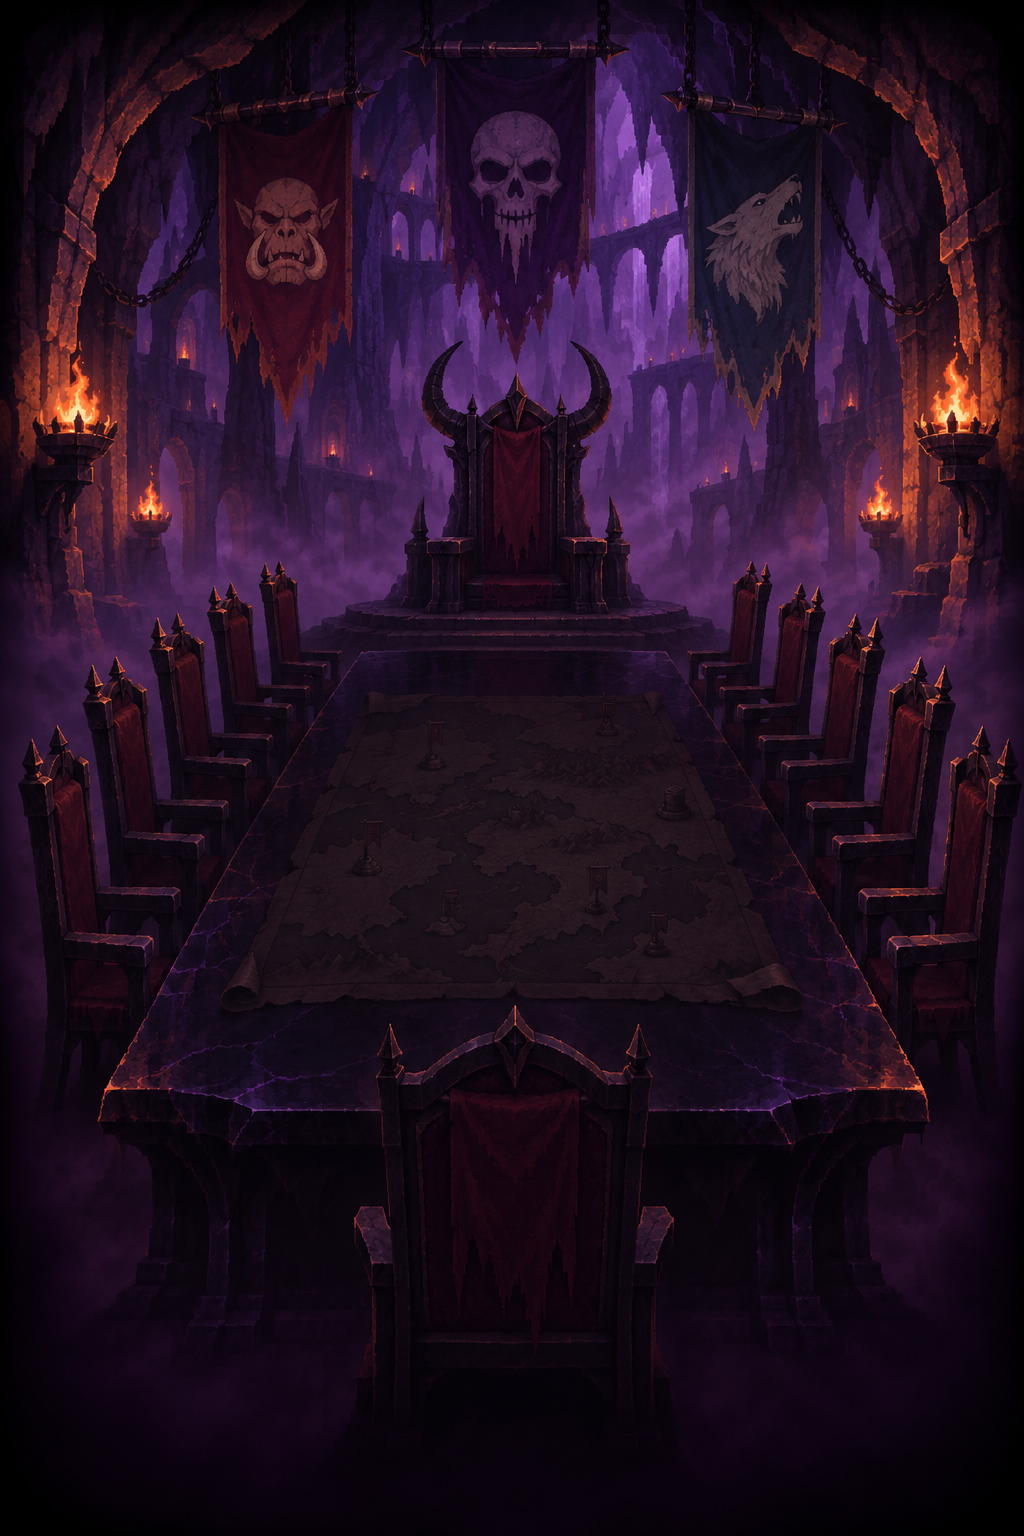
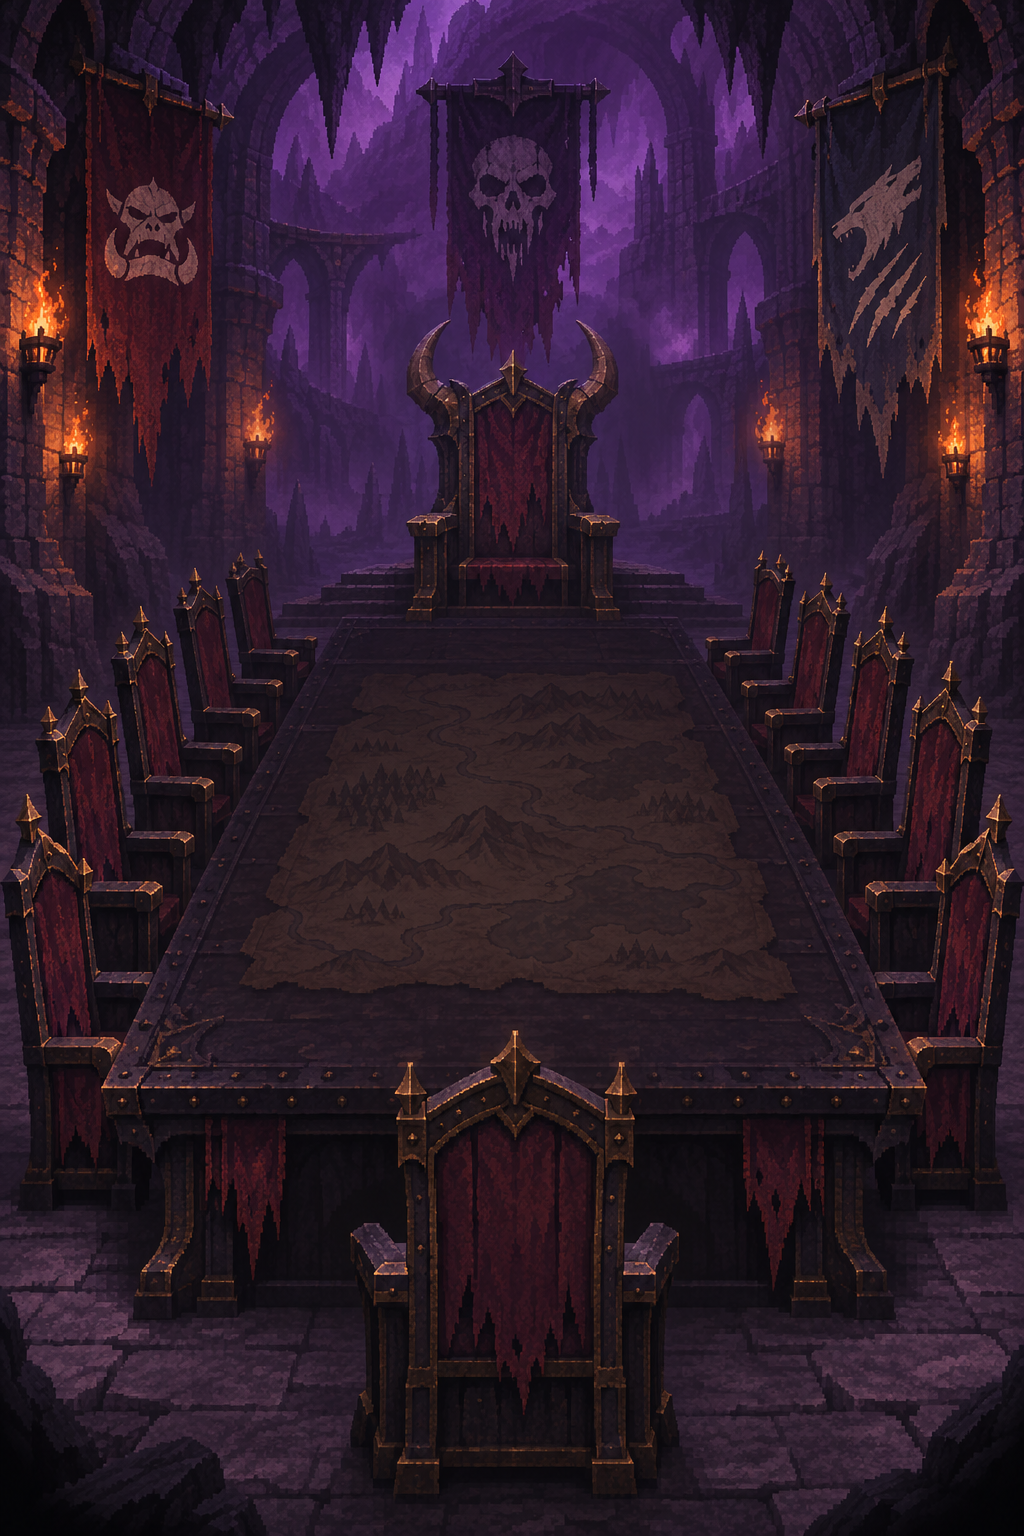
Paint cavern war council menu backdrop

diff --git a/docs/notes/expansion-2-art-prompts.md b/docs/notes/expansion-2-art-prompts.md
@@ -25,3 +25,9 @@ small gold laurel wreath. Distinct whole silhouettes with transparent padding.
 ```text
 Repository hpatter9/legends-of-the-fall; branch art/expansion-2; output art-source/expansion/frames.png. Paint ONE 1280x256 transparent PNG, five equal 256x256 cells in one row, no text. Match the existing dark fantasy painted pixel-art UI: aged brass and gold, dark outlines, restrained highlights and dark crimson accents. Cells 1–3: matching thin square brass portrait frames, fully transparent centres, bearing exactly ONE, TWO, THREE deep diagonal claw scars respectively, dark red beneath torn brass. Cell 4: aged gold filigree square heirloom frame, transparent centre, small family crest at top, exactly three empty notches along bottom. Cell 5: one gold signet ring with red stone, centred and filling about 60% of its cell. Transparent background and padding; no lettering, no extra objects.
 ```
+
+## Cavern council backdrop
+
+```text
+Repository hpatter9/legends-of-the-fall; branch art/expansion-2; output art-source/expansion/council-backdrop.png. Paint ONE opaque 1024x1536 upright 2:3 menu backdrop in textured painterly pixel art, dark medieval fantasy. An empty war council in a monumental torchlit cavern hall: a long black table in perspective with a subdued war map, a tall imposing horned throne at the far head, and exactly thirteen other high-backed chairs (six down each side and one at the near foot). Banners on cavern walls bear pictorial orc tusk, undead skull, and beast claw emblems, no writing. Violet ambient light and restrained ember-orange torchlight, black iron, charcoal stone, muted brass. Strong readable silhouettes, deliberate pixel clusters and painterly texture. Deeply darkened edges AND a broad quiet dark middle for legible overlaid menu text; map low contrast with no bright central hotspot. Architectural framing, depth, atmospheric smoke, restrained highlights along sides. No people, no figures, no lettering, no text, no UI. Full scene background, opaque rather than transparent as explicitly required for this backdrop.
+```

diff --git a/docs/TASKS.md b/docs/TASKS.md
@@ -1250,3 +1250,12 @@ UI-007 final 0.190.0 validation complete: current Last Stand Auto, pause/resume,
 
 EXPANSION-2-FRAMES — Codex; art/expansion-2; /workspace/legends-of-the-fall. Owner requests one five-cell 1280x256 transparent source sheet at art-source/expansion/frames.png, matching existing style, added to Expansion art 2 PR #464. Scope: that source image plus required prompt/task/handoff records. Completion: visual review, exact size and transparent centres/background, commit and push to existing PR. No runtime changes.
 - **EXPANSION-2-FRAMES result:** five-cell source sheet painted and visually reviewed; dimensions, RGBA, binary alpha, padding and empty portrait centres verified. Ready for review in PR #464. See [handoff](notes/expansion-2-art.md). Runtime checks not run (source art only).
+
+### EXPANSION-2-COUNCIL — Cavern council backdrop
+
+- Owner: Codex; branch `art/expansion-2`; worktree `/workspace/legends-of-the-fall`; PR #464.
+- Scope: one `art-source/expansion/council-backdrop.png` plus required prompt/task/handoff records.
+- Direction: owner's specified empty cavern war council, violet and ember light, dark centre and edges for menu text.
+- Completion: 1024×1536 upright painterly pixel art, black map table, horned throne, thirteen high-backed chairs, orc/undead/beast banners; no people or text; visually inspect and push to existing PR.
+- Status: in progress; source art only.
+- Result: ready for review in Expansion art 2 PR #464. Painted and visually reviewed; exact 1024×1536 RGB PNG verified. No people or text; subdued map/centre and dark outer edges. [Handoff](notes/expansion-2-art.md). Runtime tests/build not run: source artwork only.

diff --git a/docs/notes/expansion-2-art.md b/docs/notes/expansion-2-art.md
@@ -4,3 +4,9 @@
 Repainted `art-source/expansion/frames.png` as one 1280×256 RGBA sheet: three matching brass portrait frames with one, two and three crimson-backed claw scars; an aged-gold filigree heirloom frame with tree crest and three empty bottom notches; and a red-stone gold signet ring at 60% cell width. Generated against the existing frame reference, then cropped and packed with nearest-neighbour sizing and hard alpha edges.
 
 Visually reviewed all five cells. Verified dimensions, binary alpha, transparent padding and empty portrait centres (the heirloom crest extends into the top opening). Runtime tests/build not run: source art only. Handoff: existing Expansion art 2 PR #464; ready for owner review, no runtime integration or version bump.
+
+## Cavern council backdrop
+
+Repainted `art-source/expansion/council-backdrop.png` as one opaque 1024×1536 upright painterly pixel-art menu backdrop. Empty torchlit cavern council hall, long black table and dim unlabelled war map, horned throne, thirteen high-backed chairs, and orc/undead/beast wall banners in violet and ember light. The centre and outer edges are subdued for menu text. No people or lettering.
+
+Visually reviewed the generated artwork; PNG header verified exact dimensions and RGB colour. Added to Expansion art 2 PR #464 on `art/expansion-2`. Runtime tests/build not run: source artwork and records only; no runtime integration or version bump. Ready for owner review.
